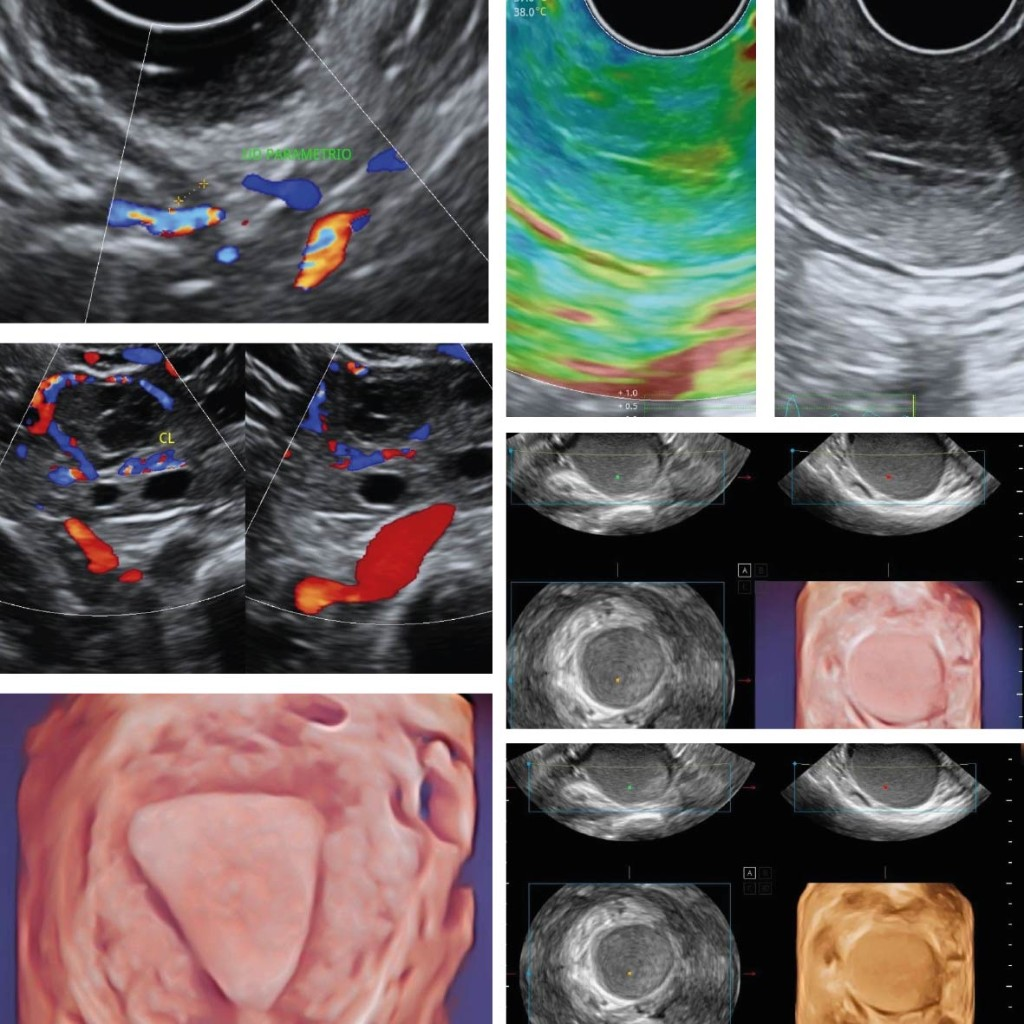
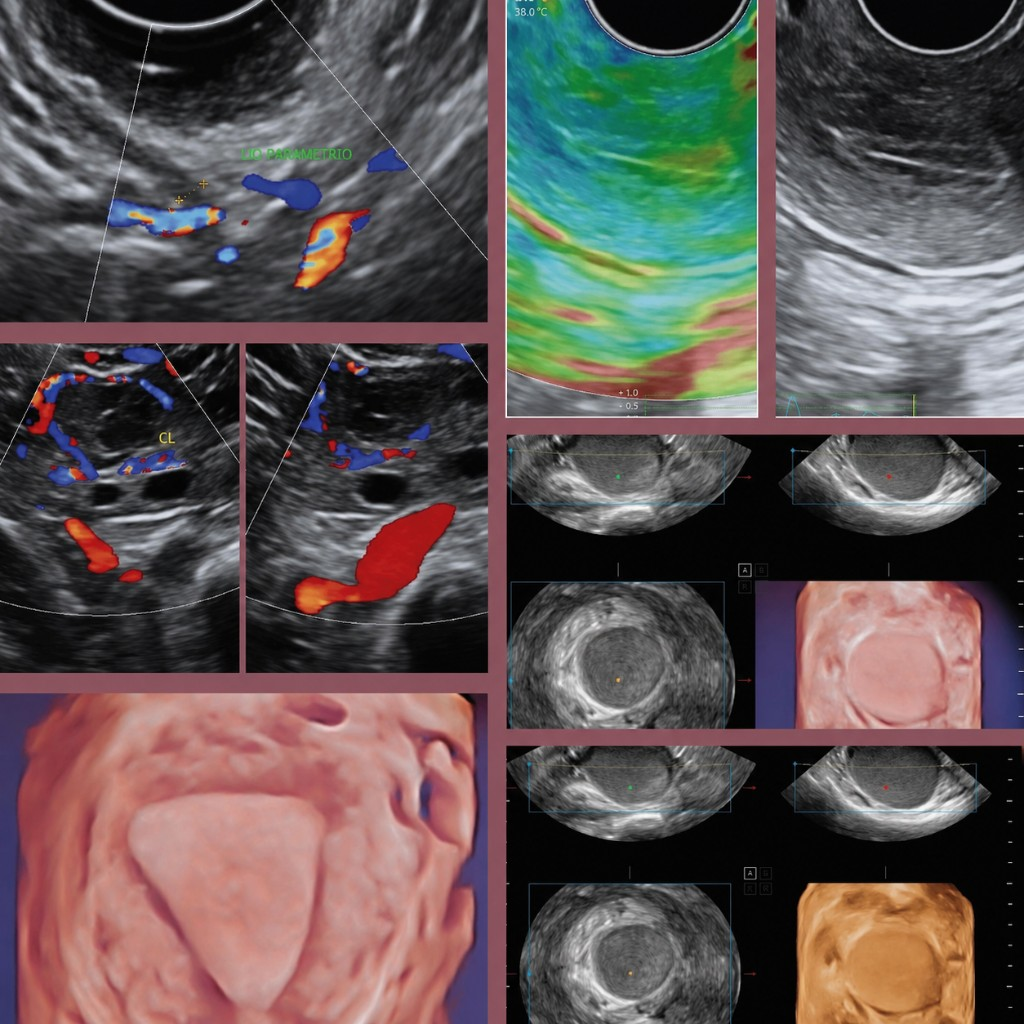
Actualiza la imagen del slide 2 del hero con el collage ecográfico nuevo.
Reemplaza el collage de ultrasonido en el slide de diagnóstico ecográfico.

diff --git a/mapeo-endometriosis.html b/mapeo-endometriosis.html
@@ -505,7 +505,7 @@
                             </a>
                         </div>
                         <div class="hero-slider__media">
-                            <img src="./recursos/hero/slider-categoria-especialista-ecografia.webp"
+                            <img src="./recursos/hero/slider-categoria-especialista-ecografia.webp?v=2"
                                 alt="Collage de ultrasonido 2D, Doppler, elastografía y reconstrucción 3D para mapeo ecográfico"
                                 width="1024" height="1024" loading="lazy" decoding="async">
                         </div>